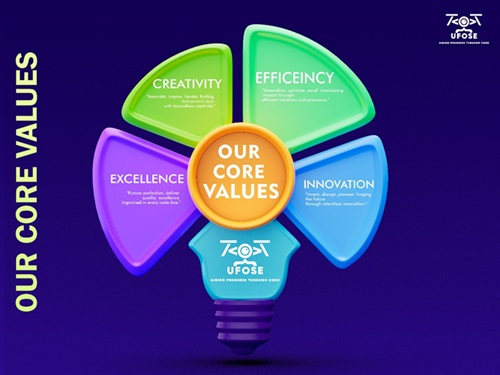
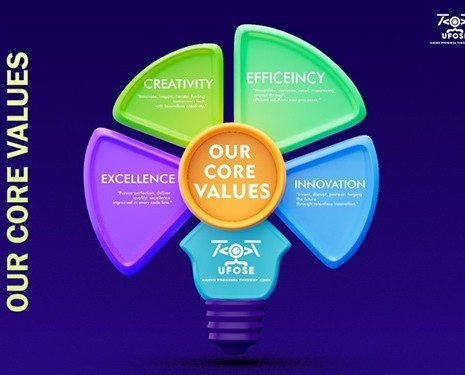
resolve layout and responsive issues

diff --git a/AboutUs.html b/AboutUs.html
@@ -25,7 +25,7 @@
   <nav class="navbar navbar-light bg-light">
     <div class="container">
       <div class="row">
-        <div class="col-md-3 ">
+        <div class="col-md-2 ">
           <a class="navbar-brand" href="index.html">
             <img src="images/logo_UFOS.png" alt="logo" />
 
@@ -83,8 +83,8 @@
   </div>
 
   <div data-aos="fade-left">
-    <div class="abo_us">
-      <div class="container-fluid py-5">
+    <div class="container-fluid abo_us">
+      <div class="py-5">
         <div class="row">
           <div class="col-md-4 mb-4">
             <div class="con_abo">
@@ -112,9 +112,9 @@
 
   </div>
   <div data-aos="fade-right">
-    <div class="coreValues">
+    <div class="coreValues container-fluid">
 
-      <div class="container-fluid py-5">
+      <div class=" py-5">
         <div class="row">
           <div class="col-md-6 mb-6" style="padding-left: 40px;">
             <h4 class="txtstyle3" style="color:#060485;">Our Core Values</h4>
@@ -130,8 +130,8 @@
             </ul>
           </div>
           <div class="col-md-6 mb-6">
-            <br><br>
-            <img src="images/Core Values.jpg" alt="" height="400">
+            <br><br><br><br>
+            <img src="images/Core Values.jpg" alt="" height="">
           </div>
         </div>
       </div>
@@ -140,8 +140,8 @@
   </div>
   <!--vision/Mission-->
   <div data-aos="fade-left">
-    <div class="vm">
-      <div class="container-fluid py-5">
+    <div class="vm container-fluid">
+      <div class=" py-5">
         <div class="row">
           <div class="col-md-12" style="padding-left: 40px;">
             <h4 class="txtstyle3" style="color:#060485;">Our Vision & Mission</h4>
@@ -341,27 +341,29 @@
 
   <!--CONTACT-->
   <!-- Gallery -->
-  <div class="row galarry">
-    <h4 class="txtstyle3" style="color:#060485;">Gallery</h4>
-    <div class="blur-effect col-lg-4 col-md-12 mb-4 mb-lg-0">
-      <img data-aos="flip-right" src="gallery/464200951_539418912353393_275072926362494952_n.jpg"
-        class="w-100 shadow-1-strong rounded mb-4 styleIMG" alt="" />
+  <div class="container-fluid">
+    <div class="row galarry">
+      <h4 class="txtstyle3" style="color:#060485;">Gallery</h4>
+      <div class="blur-effect col-lg-4 col-md-12 mb-4 mb-lg-0">
+        <img data-aos="flip-right" src="gallery/464200951_539418912353393_275072926362494952_n.jpg"
+          class="w-100 shadow-1-strong rounded mb-4 styleIMG" alt="" />
 
-      <img data-aos="flip-right" src="gallery/1 (2).jpg" class="w-100 shadow-1-strong rounded mb-4 styleIMG" alt="" />
-    </div>
+        <img data-aos="flip-right" src="gallery/1 (2).jpg" class="w-100 shadow-1-strong rounded mb-4 styleIMG" alt="" />
+      </div>
 
-    <div class="blur-effect col-lg-4 mb-4 mb-lg-0">
-      <img data-aos="flip-right" src="gallery/1 (1).jpg" class="w-100 shadow-1-strong rounded mb-4 styleIMG" alt="" />
+      <div class="blur-effect col-lg-4 mb-4 mb-lg-0">
+        <img data-aos="flip-right" src="gallery/1 (1).jpg" class="w-100 shadow-1-strong rounded mb-4 styleIMG" alt="" />
 
-      <img data-aos="flip-right" src="gallery/464378660_539419032353381_4653004834783427825_n.jpg"
-        class="w-100 shadow-1-strong rounded mb-4 styleIMG" alt="" />
-    </div>
+        <img data-aos="flip-right" src="gallery/464378660_539419032353381_4653004834783427825_n.jpg"
+          class="w-100 shadow-1-strong rounded mb-4 styleIMG" alt="" />
+      </div>
 
-    <div class="blur-effect col-lg-4 mb-4 mb-lg-0">
-      <img data-aos="flip-right" src="gallery/464385209_539431735685444_4587459875388398053_n.jpg"
-        class="w-100 shadow-1-strong rounded mb-4 styleIMG" alt="" />
+      <div class="blur-effect col-lg-4 mb-4 mb-lg-0">
+        <img data-aos="flip-right" src="gallery/464385209_539431735685444_4587459875388398053_n.jpg"
+          class="w-100 shadow-1-strong rounded mb-4 styleIMG" alt="" />
 
-      <img data-aos="flip-right" src="gallery/2.jpg" class="w-100 shadow-1-strong rounded mb-4 styleIMG" alt="" />
+        <img data-aos="flip-right" src="gallery/2.jpg" class="w-100 shadow-1-strong rounded mb-4 styleIMG" alt="" />
+      </div>
     </div>
   </div>
   <!-- Gallery -->

diff --git a/index.html b/index.html
@@ -64,7 +64,7 @@
 <nav class="navbar navbar-light bg-light">
   <div class="container">
       <div class="row">
-        <div class="col-md-3">
+        <div class="col-md-2">
           <a class="navbar-brand" href="index.html">
             <img src="images/logo_UFOS.png" alt="logo"  />
             

diff --git a/careers.html b/careers.html
@@ -25,7 +25,7 @@
   <nav class="navbar navbar-light bg-light">
     <div class="container">
       <div class="row">
-        <div class="col-md-3">
+        <div class="col-md-2">
           <a class="navbar-brand" href="index.html">
             <img src="images/logo_UFOS.png" alt="logo" />
 

diff --git a/contactUs.html b/contactUs.html
@@ -25,7 +25,7 @@
   <nav class="navbar navbar-light bg-light">
     <div class="container">
       <div class="row">
-        <div class="col-md-3">
+        <div class="col-md-2">
           <a class="navbar-brand" href="index.html">
             <img src="images/logo_UFOS.png" alt="logo" />
 

diff --git a/events.html b/events.html
@@ -25,7 +25,7 @@
   <nav class="navbar navbar-light bg-light">
     <div class="container">
       <div class="row">
-        <div class="col-md-3">
+        <div class="col-md-2">
           <a class="navbar-brand" href="index.html">
             <img src="images/logo_UFOS.png" alt="logo" />
 

diff --git a/products.html b/products.html
@@ -25,7 +25,7 @@
   <nav class="navbar navbar-light bg-light">
     <div class="container">
       <div class="row">
-        <div class="col-md-3">
+        <div class="col-md-2">
           <a class="navbar-brand" href="index.html">
             <img src="images/logo_UFOS.png" alt="logo" />
 

diff --git a/services.html b/services.html
@@ -25,7 +25,7 @@
   <nav class="navbar navbar-light bg-light">
     <div class="container">
       <div class="row">
-        <div class="col-md-3">
+        <div class="col-md-2">
           <a class="navbar-brand" href="index.html">
             <img src="images/logo_UFOS.png" alt="logo" />
 

diff --git a/solutions.html b/solutions.html
@@ -25,7 +25,7 @@
   <nav class="navbar navbar-light bg-light">
     <div class="container">
       <div class="row">
-        <div class="col-md-3">
+        <div class="col-md-2">
           <a class="navbar-brand" href="index.html">
             <img src="images/logo_UFOS.png" alt="logo" />
 

diff --git a/technologies.html b/technologies.html
@@ -25,7 +25,7 @@
   <nav class="navbar navbar-light bg-light">
     <div class="container">
       <div class="row">
-        <div class="col-md-3">
+        <div class="col-md-2">
           <a class="navbar-brand" href="index.html">
             <img src="images/logo_UFOS.png" alt="logo" />
 
